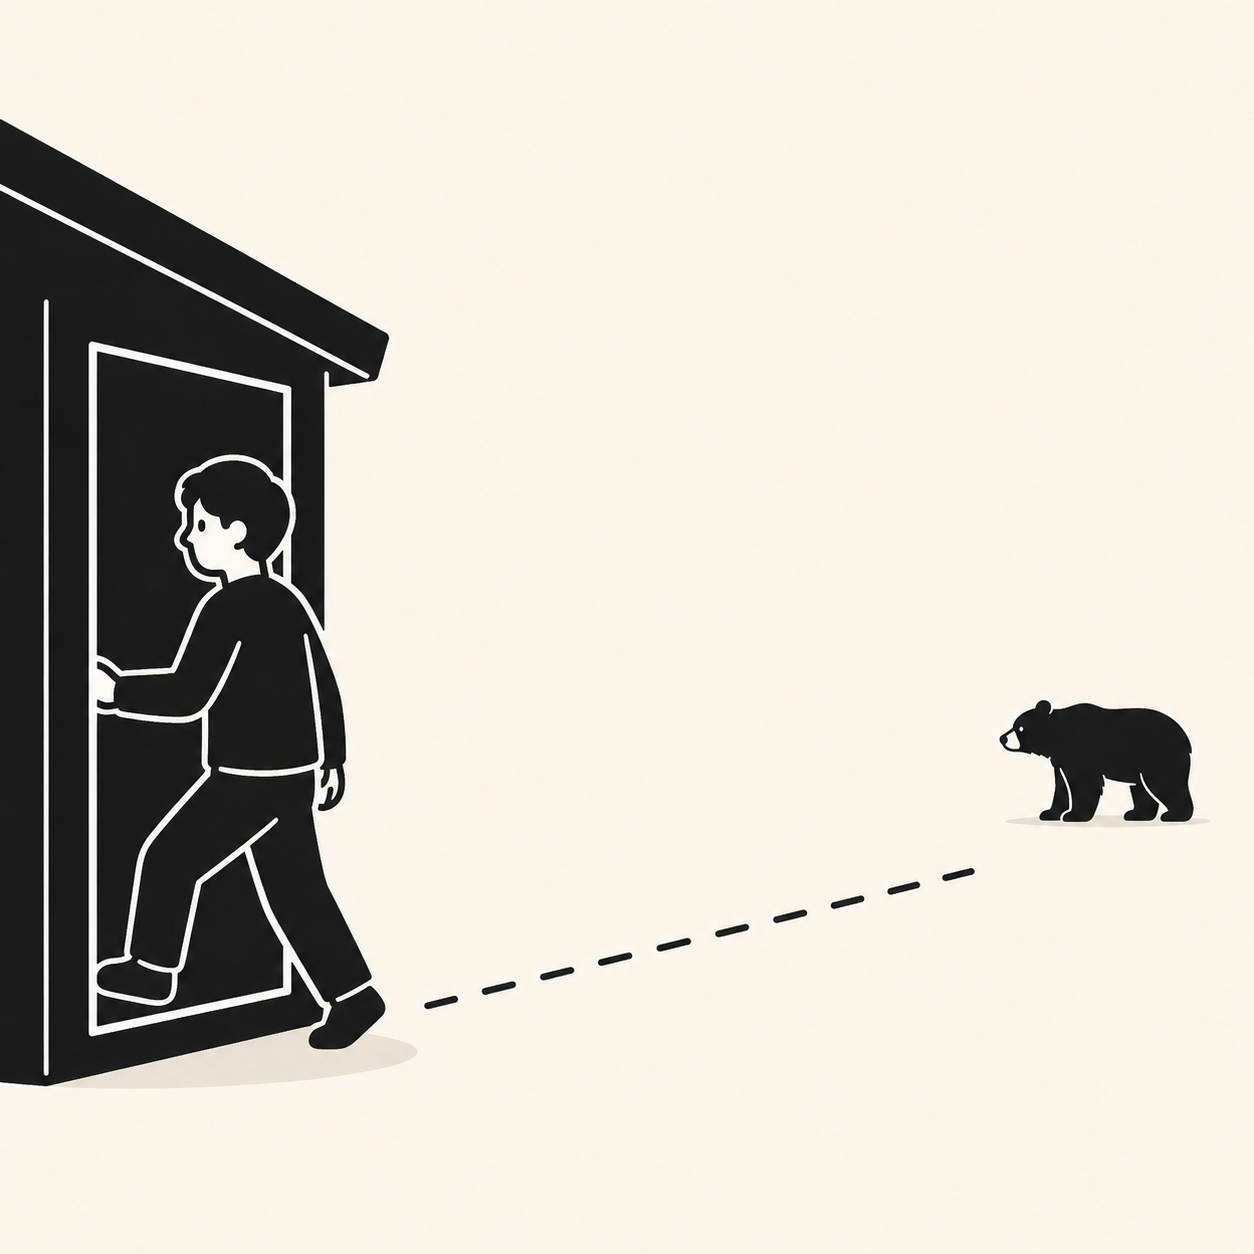
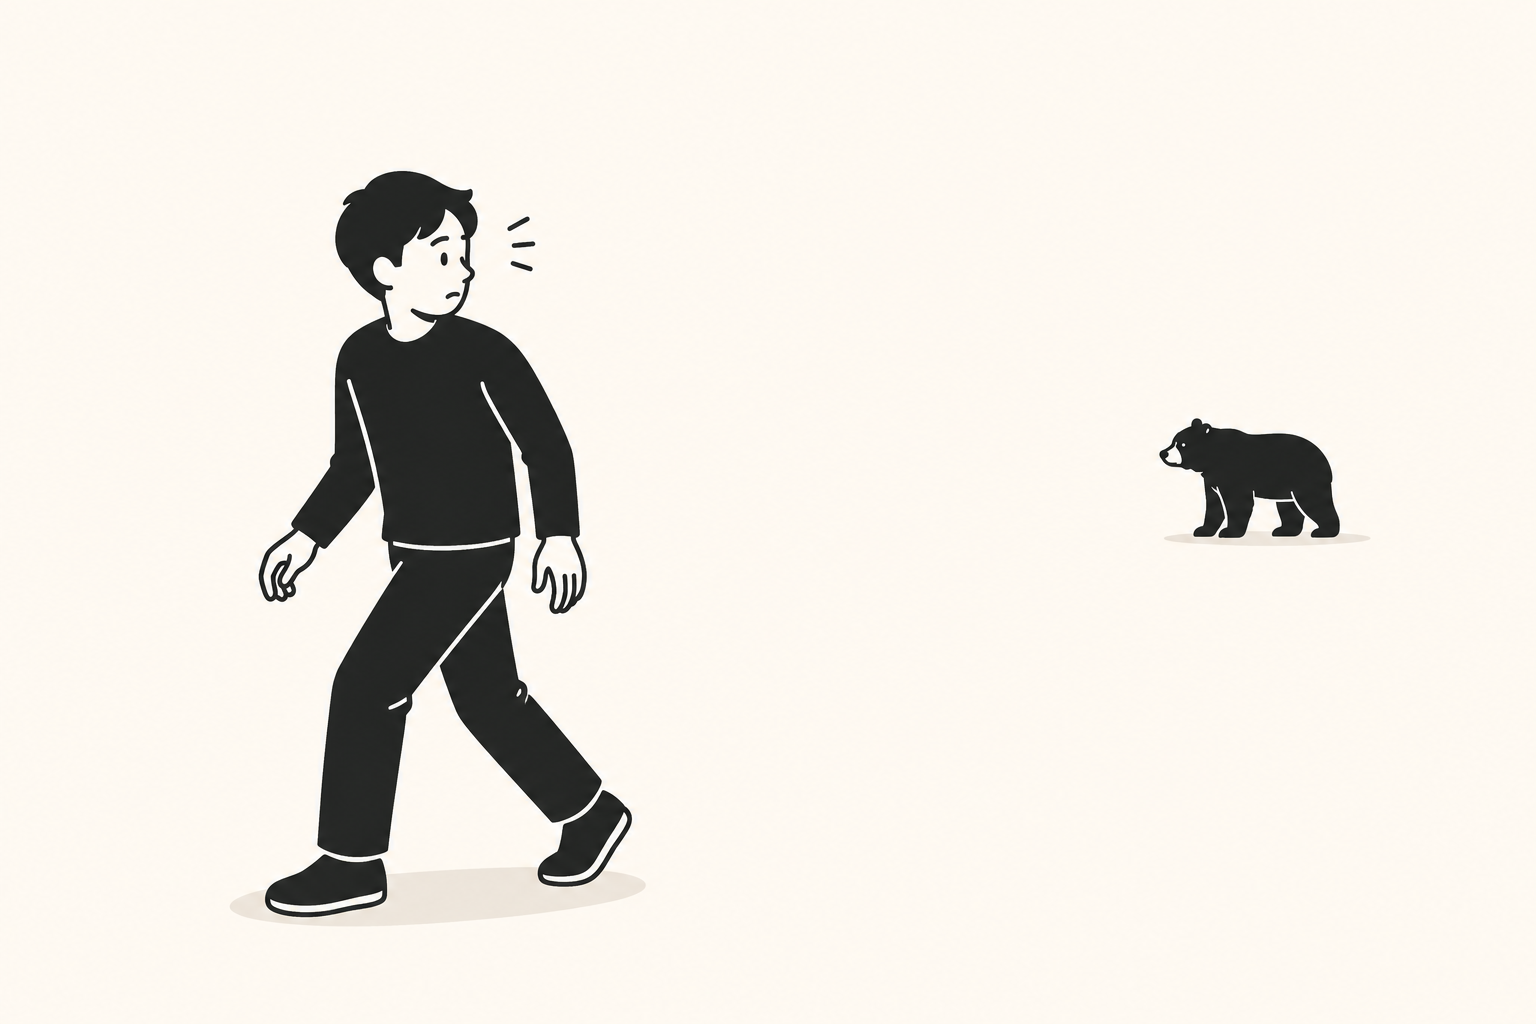
熊暑さ導線と現在地デモの安全性を改善

diff --git a/src/components/LocationCheck.jsx b/src/components/LocationCheck.jsx
@@ -1,4 +1,4 @@
-import { useEffect, useState } from 'react'
+import { useState } from 'react'
 
 import earthquakeAlertImage from '../assets/app/alert/app-alert-earthquake-visual-v1.png'
 import bearImage from '../assets/stamps/bear-alert-icon.png'
@@ -29,23 +29,74 @@ export default function LocationCheck({
   onNext,
   onBack,
   skipLoading = false,
+  locationStatus,
+  locationError,
 }) {
-  const [loading, setLoading] = useState(!skipLoading)
   const [selectedRiskKey, setSelectedRiskKey] = useState(null)
+  const [continueWithoutLocation, setContinueWithoutLocation] =
+    useState(false)
 
-  useEffect(() => {
-    if (skipLoading) {
-      return undefined
-    }
+  if (
+  !skipLoading &&
+  locationStatus === 'error' &&
+  !continueWithoutLocation
+) {
+  return (
+    <div className="location-screen">
+      <div className="location-card danger-card location-error-card">
+        <div className="location-back-area">
+          <button
+            type="button"
+            className="location-back-button"
+            onClick={onBack}
+            aria-label="TOPへ戻る"
+          >
+            ←
+          </button>
+        </div>
 
-    const timer = setTimeout(() => {
-      setLoading(false)
-    }, 1400)
+        <main className="location-error-main">
+          <p className="location-demo-badge">
+            デモ版
+          </p>
 
-    return () => clearTimeout(timer)
-  }, [skipLoading])
+          <h1>
+            位置情報を
+            <br />
+            確認できませんでした
+          </h1>
 
-  if (loading) {
+          <p className="location-error-message">
+            {locationError ||
+              'この端末では位置情報を確認できません'}
+          </p>
+
+          <button
+            type="button"
+            className="primary-button"
+            onClick={() => setContinueWithoutLocation(true)}
+          >
+            デモを続ける
+          </button>
+
+          <button
+            type="button"
+            className="location-error-back"
+            onClick={onBack}
+          >
+            TOPへ戻る
+          </button>
+        </main>
+      </div>
+    </div>
+  )
+}
+
+  if (
+    !skipLoading &&
+    !continueWithoutLocation &&
+    (locationStatus === 'idle' || locationStatus === 'loading')
+  ) {
     return (
       <div className="location-screen">
         <div className="location-card loading-card">

diff --git a/src/index.css b/src/index.css
@@ -795,11 +795,11 @@ input {
 }
 
 .bear-flow-main {
-  padding: 24px 22px 32px;
+  padding: 12px 22px 18px;
 }
 
 .bear-flow-status {
-  margin: 0 0 18px;
+  margin: 0 0 8px;
 
   display: flex;
   align-items: center;
@@ -855,7 +855,7 @@ input {
 }
 
 .bear-flow-demo-note {
-  margin: 16px 0 0;
+  margin: 10px 0 0;
 
   color: #65758b;
 
@@ -867,8 +867,8 @@ input {
 }
 
 .bear-flow-card {
-  min-height: 430px;
-  padding: 36px 22px;
+  min-height: 380px;
+  padding: 22px 22px;
 
   border: 1px solid #e1e8f0;
   border-radius: 30px;
@@ -887,8 +887,8 @@ input {
 
 .bear-flow-visual {
   width: 100%;
-  min-height: 210px;
-  margin: 22px 0 24px;
+  min-height: 180px;
+  margin: 12px 0 14px;
 
   border-radius: 24px;
   background: #f7fafc;
@@ -923,8 +923,8 @@ input {
 
 .bear-flow-next {
   width: 100%;
-  min-height: 88px;
-  margin-top: 24px;
+  min-height: 78px;
+  margin-top: 12px;
 
   border: none;
   border-radius: 26px;
@@ -1245,6 +1245,38 @@ input {
   font-weight: 700;
 
   text-align: center;
+}
+
+/* =========================
+   行動案内 公的情報リンク
+========================= */
+
+.flow-official-link {
+  width: fit-content;
+  min-height: 44px;
+  margin: 8px auto 0;
+  padding: 8px 10px;
+
+  color: #2563eb;
+  text-decoration: none;
+
+  font-size: 15px;
+  line-height: 1.2;
+  font-weight: 800;
+
+  display: inline-flex;
+  align-items: center;
+  justify-content: center;
+  gap: 6px;
+}
+
+.flow-official-link:active {
+  transform: translateY(1px);
+}
+
+.flow-official-link:focus-visible {
+  outline: 3px solid #12304a;
+  outline-offset: 3px;
 }
 
 /* =========================

diff --git a/src/screens/BearActionScreen.jsx b/src/screens/BearActionScreen.jsx
@@ -24,7 +24,7 @@ const bearSteps = [
     id: 'keep-distance',
     label: '3/3',
     title: '十分に離れる',
-    message: '熊から距離をとって、安全な場所へ移動する',
+    message: '熊との距離をとり、静かにその場を離れる',
     action: '案内を終える',
     image: bearKeepDistanceImage,
   },
@@ -109,6 +109,18 @@ function BearActionScreen({ onBack, onComplete }) {
         >
           {step.action}
         </button>
+
+        {isLastStep ? (
+          <a
+            className="flow-official-link"
+            href="https://www.env.go.jp/nature/choju/effort/effort12/effort12.html"
+            target="_blank"
+            rel="noopener noreferrer"
+          >
+            <span>公的な情報を見る</span>
+            <span aria-hidden="true">↗</span>
+          </a>
+        ) : null}
 
         <p className="bear-flow-demo-note">
           これはデモです。実際の災害情報とは

diff --git a/src/screens/HeatRiskScreen.jsx b/src/screens/HeatRiskScreen.jsx
@@ -260,6 +260,18 @@ function HeatRiskScreen({ onBack, onComplete }) {
           {step.action}
         </button>
 
+        {isLastStep ? (
+          <a
+            className="flow-official-link"
+            href="https://www.wbgt.env.go.jp/"
+            target="_blank"
+            rel="noopener noreferrer"
+          >
+            <span>公的な情報を見る</span>
+            <span aria-hidden="true">↗</span>
+          </a>
+        ) : null}
+
         <button
           className="heat-flow-emergency-link"
           type="button"

diff --git a/src/App.jsx b/src/App.jsx
@@ -161,15 +161,17 @@ function App() {
   })
 }, [location])
 
+  useEffect(() => {
+    if (locationStatus !== 'loading') {
+      setIsCheckingLocation(false)
+    }
+  }, [locationStatus])
+
   const startLocationCheck = () => {
     setIsCheckingLocation(true)
-
+    setResumeLocationDemo(false)
+    setScreen('location')
     getCurrentLocation()
-
-    setTimeout(() => {
-      setIsCheckingLocation(false)
-      setScreen('location')
-    }, 1800)
   }
 
   const openSoundConfirm = (type) => {

diff --git a/src/screens/EmergencyModeScreen.jsx b/src/screens/EmergencyModeScreen.jsx
@@ -50,9 +50,9 @@ function EmergencyModeScreen({ onBack, onComplete }) {
           </div>
 
           <p className="emergency-action-message">
-            落ちてくるものや、
+            頭を守り、
             <br />
-            倒れそうなものから離れてください。
+            安全な姿勢をとる
           </p>
         </section>
 
